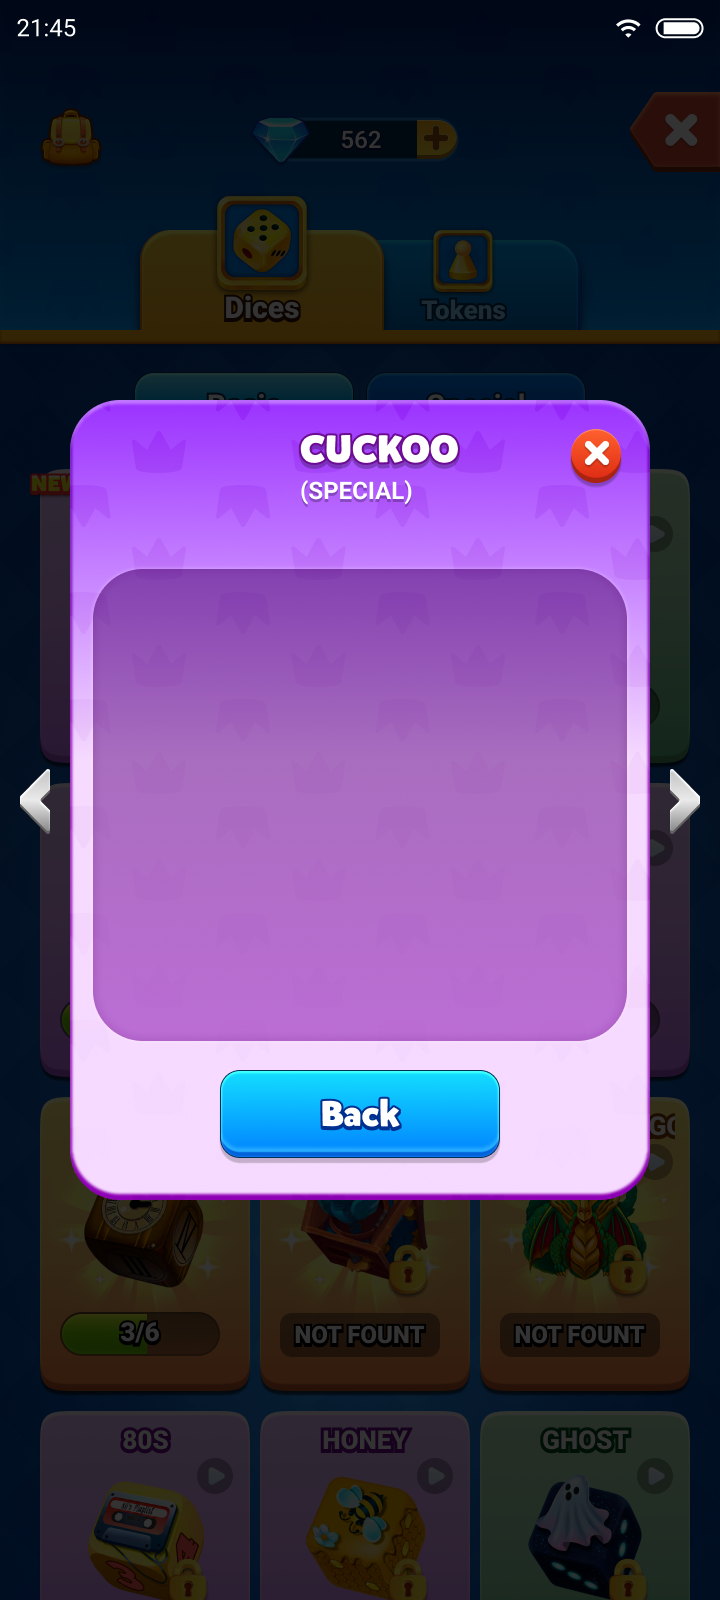
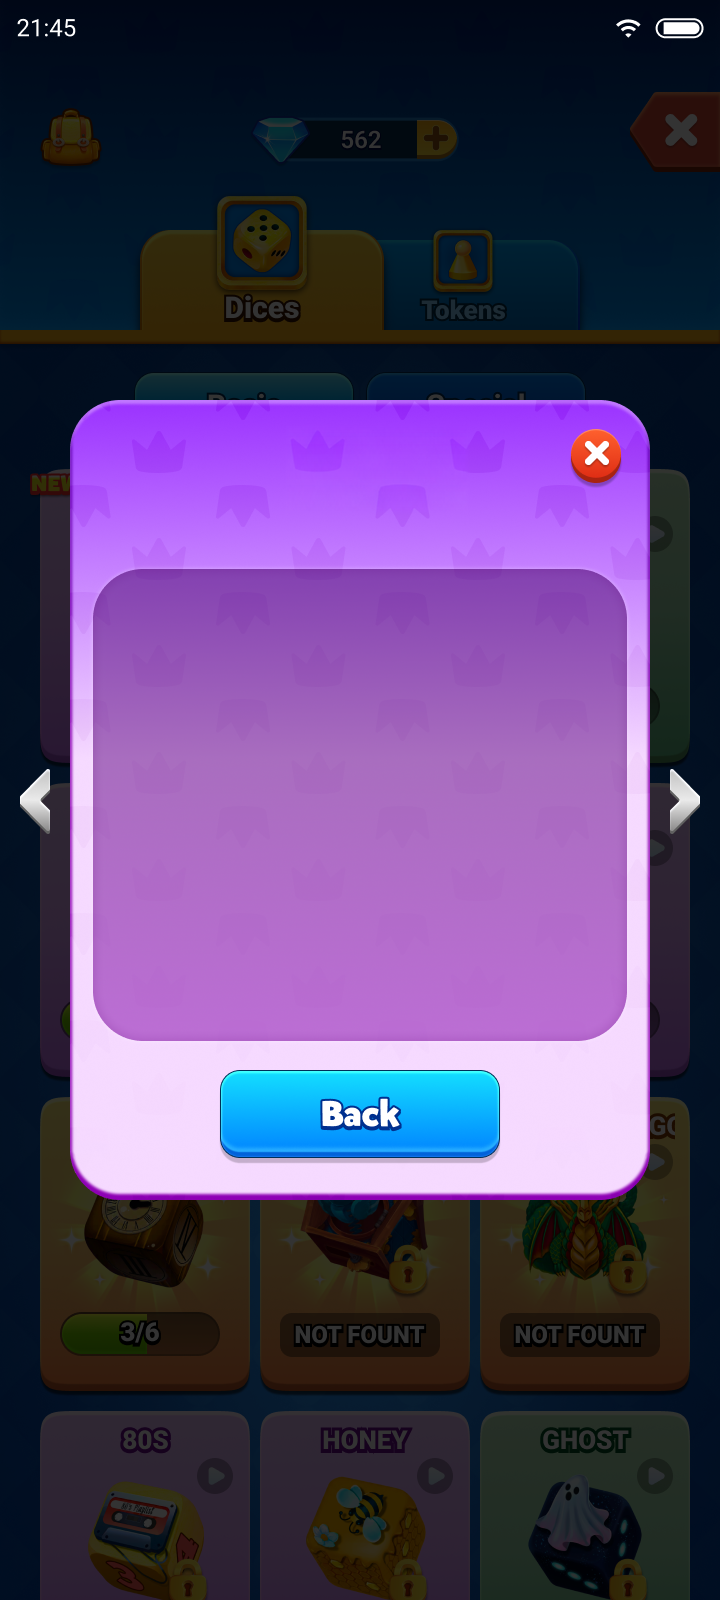
fix(dice): clean up roll starts, popup titles and upload sessions

Changed region(s): [[0.3972, 0.25, 0.6417, 0.3125]]

diff --git a/dice/preview-app.js b/dice/preview-app.js
@@ -2,7 +2,7 @@ import { connectEmbedded } from './embed.mjs';
 import { bindDiceUploads, diceFilePath } from './upload-input.mjs';
 import { VIDEO_SPEC } from './video-export.mjs';
 import { DiceAudio } from './audio.mjs';
-import { localApi } from './local-preview.mjs';
+import { clearLegacyPreviewHistory, forgetLocalPreview, localApi } from './local-preview.mjs';
 import { GameRenderer } from '/dice/renderer.js';
 import { t, errorText, applyTranslations, toggleLanguage, getLanguage } from '/dice/preview-i18n.js';
 
@@ -14,9 +14,10 @@ let activity = null, notice = null, currentError = null, toastTimer;
 let embedded = null, audioWarning='', audioSignature='';
 const audio = new DiceAudio();
 const requiredSlots = () => GREEN_SLOTS;
-let greenExtras = [];
+let pendingExtras = [];
+const normalizedName = file => file.name.normalize('NFKC').trim().toLowerCase();
 function greenSlot(file) {
- const name=file.name.normalize('NFKC').trim().toLowerCase(),stem=name.replace(/\.png$/i,'');
+ const name=normalizedName(file),stem=name.replace(/\.png$/i,'');
  const m=/^(?:sz[_ -]?|face[_ -]?)?([1-6])$/.exec(stem);
  return /\.png$/i.test(name) && m ? 'sz_'+m[1] : null;
 }
@@ -49,7 +50,7 @@ function fillSettings(value) {
 }
 function releasePending(resetTarget = true) {
   pending.forEach(file => { if(file.previewUrl) URL.revokeObjectURL(file.previewUrl); });
-  pending = new Map(); greenExtras = []; if (resetTarget) uploadGrade = null;
+  pending = new Map(); pendingExtras = []; if (resetTarget) uploadGrade = null;
 }
 const api = localApi;
 const post = (path, body) => api(path, {method:'POST', headers:{'Content-Type':'application/json'}, body:JSON.stringify(body)});
@@ -211,8 +212,12 @@ async function importPending() {
   const values = {...settings(), grade:uploadGrade, previewGrade:uploadGrade, composition:'faces'};
   if (!values.name || values.name.length > 80) throw issue('nameRequired');
   activity = {key:'buildingPreview'}; render();
-  const next=await api('/api/preview/import', {method:'POST',body:{...values,files:[...[...pending.values()].map(f=>f.original),...greenExtras]}});
-  await loadSession(next); releasePending(); toast(grade === 'green' ? 'greenImportSuccess' : 'importSuccess');
+  const previous = session;
+  const next=await api('/api/preview/import', {method:'POST',body:{...values,files:[...[...pending.values()].map(f=>f.original),...pendingExtras]}});
+  try { await loadSession(next); }
+  catch (error) { forgetLocalPreview(next.id); throw error; }
+  if (previous) forgetLocalPreview(previous.id);
+  releasePending(); toast(grade === 'green' ? 'greenImportSuccess' : 'importSuccess');
 }
 async function stageFiles(files) {
   if (!files.length) throw issue('noFiles');
@@ -311,7 +316,7 @@ async function stageGreen(files) {
   // Canonical sz_N beats legacy 1.png/2.png included in old resource folders.
   const chosen=[];
   for(const [slot,list] of groups) {
-    const priority=f=>f.name.normalize('NFKC').trim().toLowerCase()===slot+'.png'?0:/^\d\.png$/i.test(f.name)?2:1;
+    const priority=f=>normalizedName(f)===slot+'.png'?0:/^\d\.png$/i.test(f.name)?2:1;
     const best=Math.min(...list.map(priority)),matches=list.filter(f=>priority(f)===best);
     if(matches.length!==1)throw issue('duplicateFiles',{files:matches.map(f=>f.name).join(', ')});
     chosen.push([slot,matches[0]]);
@@ -319,9 +324,10 @@ async function stageGreen(files) {
   if(!chosen.length)throw issue('greenIncomplete');
   if(chosen.length===6)releasePending(false);
   const selected=new Set(chosen.map(([,file])=>file));
-  const extras=usable.filter(f=>!selected.has(f) && (/^(?:icon|大骰子|sz_?0|anchor)\.png$|^(?:dice_roll|sound_ui_dice6)\.mp3$/i.test(f.name.normalize('NFKC').trim())
-    ||uploadGrade==='purple'&&/^[12]\.png$/i.test(f.name.normalize('NFKC').trim())));
-  greenExtras.push(...extras);
+  const extras=usable.filter(f=>!selected.has(f) && (/^(?:icon|大骰子|sz_?0|anchor)\.png$|^(?:dice_roll|sound_ui_dice6)\.mp3$/.test(normalizedName(f))
+    ||uploadGrade==='purple'&&/^[12]\.png$/.test(normalizedName(f))));
+  const newExtraNames = new Set(extras.map(normalizedName));
+  pendingExtras = [...pendingExtras.filter(file => !newExtraNames.has(normalizedName(file))), ...extras];
   for(const [slot,file]of chosen) {
     const old=pending.get(slot);if(old?.previewUrl)URL.revokeObjectURL(old.previewUrl);
     pending.set(slot,{slot,name:file.name,original:file,width:'—',height:'—'});
@@ -332,6 +338,7 @@ async function stageGreen(files) {
 function openDialog(id) { const dialog=$(id); if (!dialog.open) dialog.showModal(); }
 
 applyTranslations();
+clearLegacyPreviewHistory();
 try {
   renderer = new GameRenderer($('game-canvas'),syncRound);
   renderer.setLooping(true, 2);

diff --git a/dice/renderer.js b/dice/renderer.js
@@ -271,14 +271,6 @@ export class GameRenderer {
     const ctx = this.ctx;
     ctx.clearRect(0, 0, 720, 1600);
     ctx.drawImage(this.background, 0, 0, 720, 1600);
-    // The supplied background has a rasterized old title. Replace its title area.
-    const titleFill = ctx.createLinearGradient(0, 418, 0, 515);
-    titleFill.addColorStop(0, purple ? '#b75bf6' : '#76c64e');
-    titleFill.addColorStop(1, purple ? '#bd74ed' : '#91d071');
-    ctx.fillStyle = titleFill;
-    ctx.beginPath();
-    ctx.roundRect(290, 420, 244, 96, 12);
-    ctx.fill();
     ctx.textAlign = 'center';
     ctx.textBaseline = 'middle';
     ctx.lineJoin = 'round';
